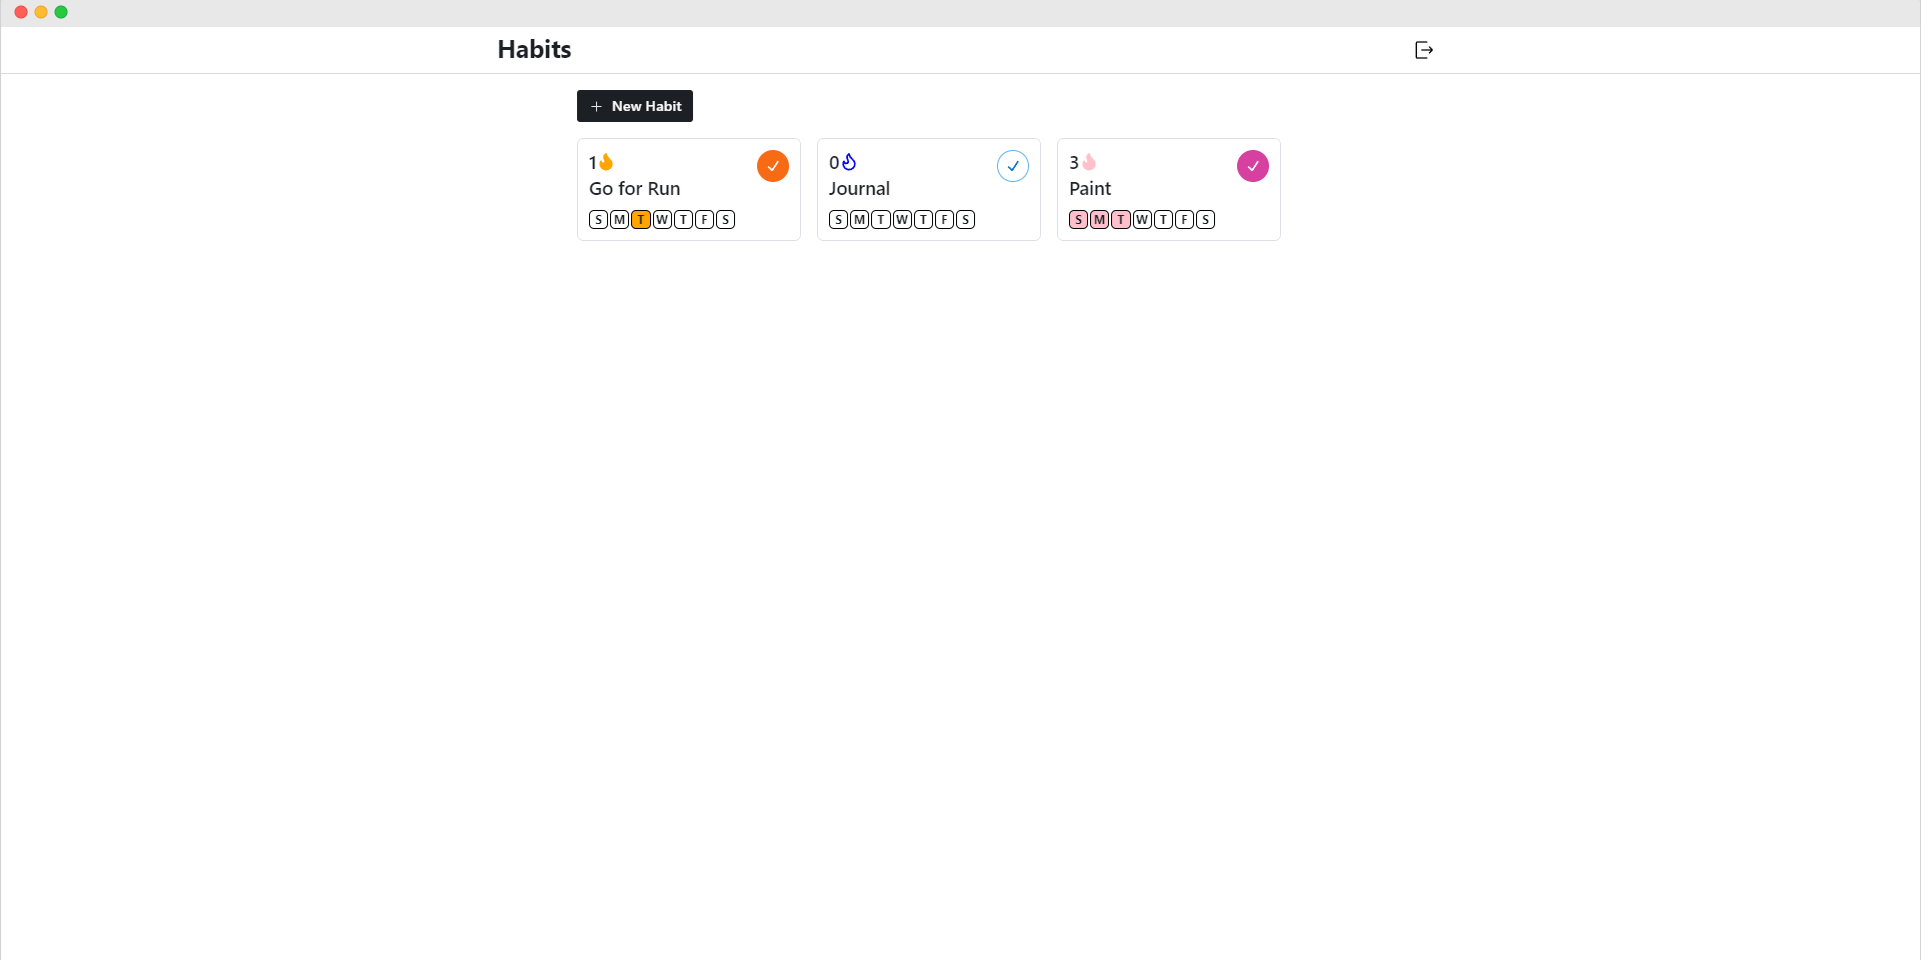
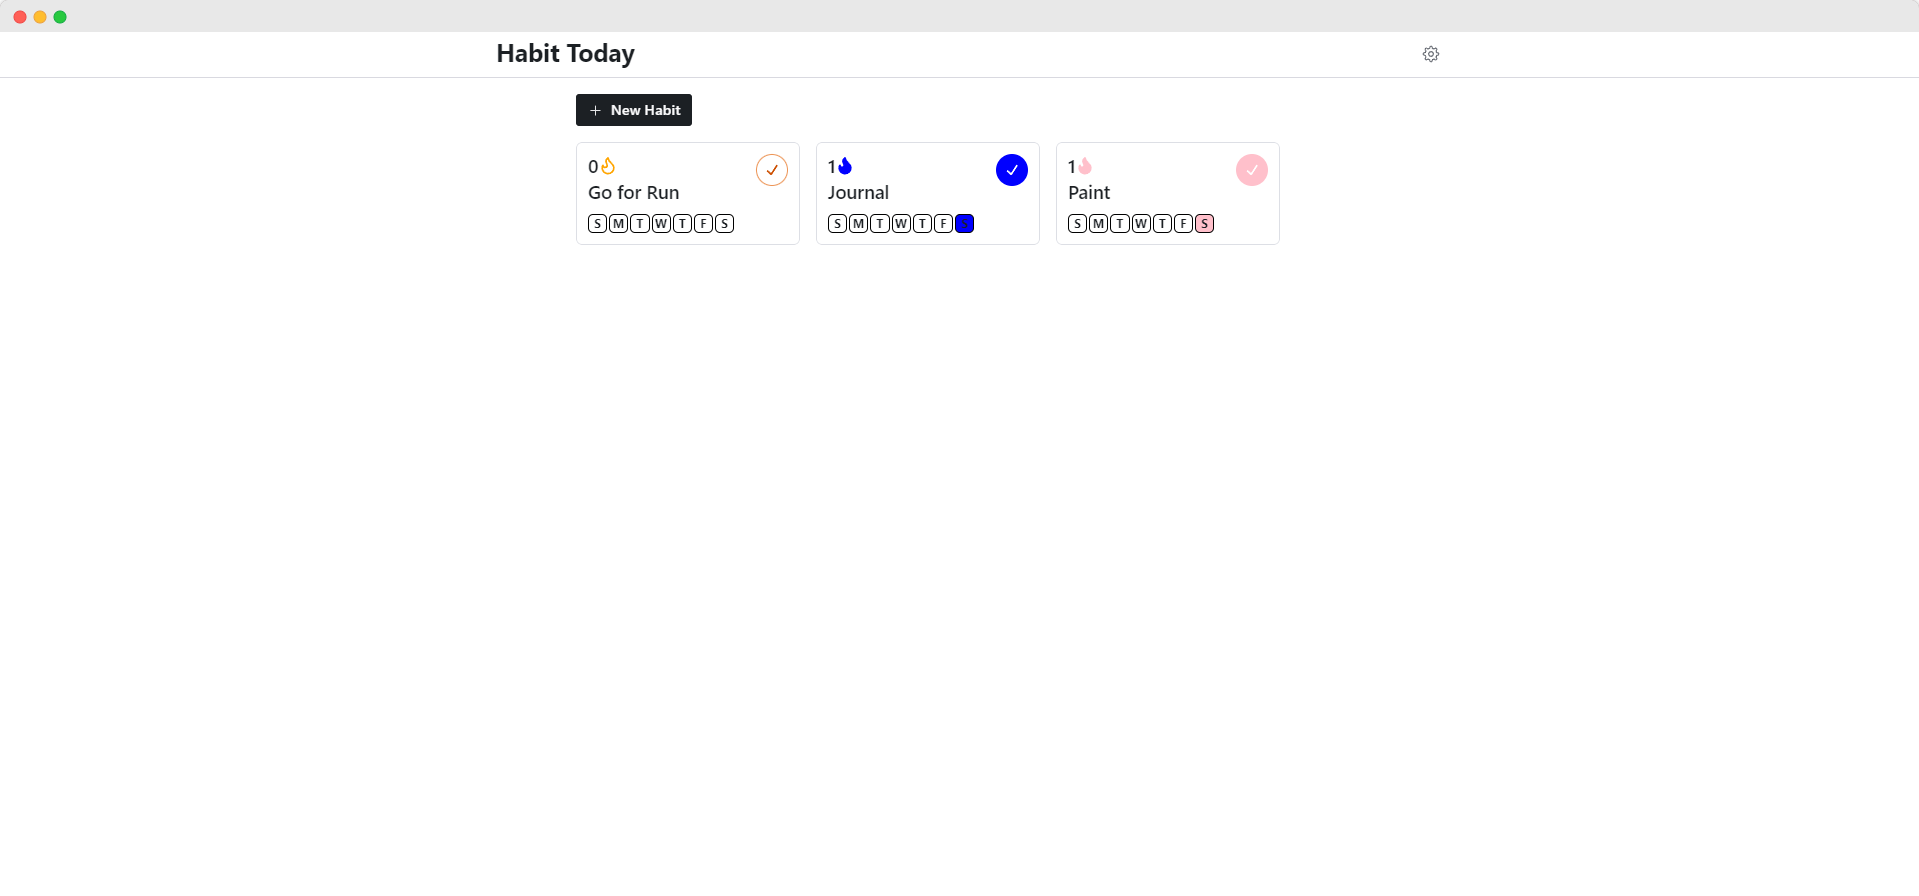
Add dark and light theme

diff --git a/frontend/src/components/HeaderBar.jsx b/frontend/src/components/HeaderBar.jsx
@@ -1,12 +1,12 @@
-import { ExitIcon } from "@radix-ui/react-icons";
-import { Text, Separator, Button } from "@radix-ui/themes";
+import { CheckIcon, ExitIcon, GearIcon } from "@radix-ui/react-icons";
+import { Text, Separator, IconButton, DropdownMenu } from "@radix-ui/themes";
 import { useDispatch, useSelector } from "react-redux";
-import { logout } from "../features/auth/authSlice";
+import { darkTheme, lightTheme, logout } from "../features/auth/authSlice";
 
 export default function HeaderBar() {
   const dispatch = useDispatch();
 
-  const { user } = useSelector((state) => state.auth);
+  const { theme } = useSelector((state) => state.auth);
 
   return (
     <>
@@ -20,9 +20,29 @@ export default function HeaderBar() {
           Habit Today
         </Text>
 
-        <button className="logout-btn" onClick={() => dispatch(logout())}>
-          {user && <ExitIcon width={20} height={20} />}
-        </button>
+        <DropdownMenu.Root>
+          <DropdownMenu.Trigger>
+            <IconButton variant="ghost" color="gray">
+              <GearIcon width="18" height="18" />
+            </IconButton>
+          </DropdownMenu.Trigger>
+          <DropdownMenu.Content>
+            <DropdownMenu.Sub>
+              <DropdownMenu.SubTrigger>Theme</DropdownMenu.SubTrigger>
+              <DropdownMenu.SubContent>
+                <DropdownMenu.Item onClick={() => dispatch(lightTheme())}>
+                  Light {theme === "light" ? <CheckIcon /> : ""}
+                </DropdownMenu.Item>
+                <DropdownMenu.Item onClick={() => dispatch(darkTheme())}>
+                  Dark {theme === "dark" ? <CheckIcon /> : ""}
+                </DropdownMenu.Item>
+              </DropdownMenu.SubContent>
+            </DropdownMenu.Sub>
+            <DropdownMenu.Item onClick={() => dispatch(logout())}>
+              Sign Out <ExitIcon />
+            </DropdownMenu.Item>
+          </DropdownMenu.Content>
+        </DropdownMenu.Root>
       </div>
       <Separator size="4" />
     </>

diff --git a/frontend/src/pages/LandingPage.jsx b/frontend/src/pages/LandingPage.jsx
@@ -3,9 +3,12 @@ import HeaderBar from "../components/HeaderBar";
 import { useNavigate } from "react-router";
 import "../index.css";
 import FooterBar from "../components/FooterBar";
+import { useSelector } from "react-redux";
 
 export default function LandingPage() {
   const navigate = useNavigate();
+
+  const { theme } = useSelector((state) => state.auth);
 
   return (
     <div className="landing-page">
@@ -23,7 +26,19 @@ export default function LandingPage() {
           </Button>
         </div>
         <div className="landing-img">
-          <img src="/landImg.png" alt="Habit Page" className="landing-image" />
+          {theme === "light" ? (
+            <img
+              src="/landImg.png"
+              alt="Habit Page"
+              className="landing-image"
+            />
+          ) : (
+            <img
+              src="/darkLandImg.png"
+              alt="Habit Page"
+              className="landing-image"
+            ></img>
+          )}
         </div>
         <div className="landing-feature">
           <Box maxWidth={"300px"}>

diff --git a/frontend/src/features/auth/authSlice.js b/frontend/src/features/auth/authSlice.js
@@ -2,9 +2,11 @@ import { createSlice, createAsyncThunk } from "@reduxjs/toolkit";
 import authService from "./authService";
 
 const user = JSON.parse(localStorage.getItem("user"));
+const theme = JSON.parse(localStorage.getItem("theme"));
 
 export const initialState = {
   user: user ? user : "",
+  theme: theme ? theme : "light",
   isError: false,
   isLoading: false,
   isSuccess: false,
@@ -59,6 +61,14 @@ export const authSlice = createSlice({
         (state.isSuccess = false),
         (state.message = "");
     },
+    lightTheme: (state) => {
+      state.theme = "light";
+      localStorage.setItem("theme", JSON.stringify("light"));
+    },
+    darkTheme: (state) => {
+      state.theme = "dark";
+      localStorage.setItem("theme", JSON.stringify("dark"));
+    },
   },
   extraReducers: (builder) => {
     builder
@@ -97,5 +107,5 @@ export const authSlice = createSlice({
   },
 });
 
-export const { reset } = authSlice.actions;
+export const { reset, lightTheme, darkTheme } = authSlice.actions;
 export default authSlice.reducer;

diff --git a/frontend/src/main.jsx b/frontend/src/main.jsx
@@ -1,22 +1,27 @@
-import { StrictMode } from "react";
+import { StrictMode, useEffect } from "react";
 import { createRoot } from "react-dom/client";
-import { Provider } from "react-redux";
+import { Provider, useSelector } from "react-redux";
 import { BrowserRouter } from "react-router";
 import { Theme } from "@radix-ui/themes";
 import "@radix-ui/themes/styles.css";
 import "./index.css";
-
 import App from "./App.jsx";
-
 import { store } from "./app/store.js";
+
+function ThemedApp() {
+  const { theme } = useSelector((state) => state.auth);
+  return (
+    <Theme radius="small" appearance={theme}>
+      <App />
+    </Theme>
+  );
+}
 
 createRoot(document.getElementById("root")).render(
   // <StrictMode>
   <Provider store={store}>
     <BrowserRouter>
-      <Theme radius="small">
-        <App />
-      </Theme>
+      <ThemedApp />
     </BrowserRouter>
   </Provider>
   // </StrictMode>

diff --git a/frontend/src/index.css b/frontend/src/index.css
@@ -15,25 +15,9 @@
 .header {
   display: flex;
   justify-content: space-between;
+  align-items: center;
   width: 50%;
   margin: 0 auto;
-}
-
-.logout-btn {
-  display: flex;
-  justify-content: center;
-  align-items: center;
-  cursor: pointer;
-  margin: 5px 0 5px 0;
-  width: 36px;
-  border-radius: 5px;
-  border: none;
-  background-color: white;
-  transition: background-color 0.3s ease;
-}
-
-.logout-btn:hover {
-  background-color: #e9e7e7;
 }
 
 /* Login and Register Page */

diff --git a/frontend/src/components/Habit.jsx b/frontend/src/components/Habit.jsx
@@ -165,6 +165,9 @@ export default function Habit({ title, color, habitId }) {
               variant={clickState}
               color={color}
               radius="full"
+              style={{
+                backgroundColor: clickState === "solid" ? color : "transparent",
+              }}
               onClick={handleClick}
             >
               <CheckIcon width={"20px"} height={"20px"} />
